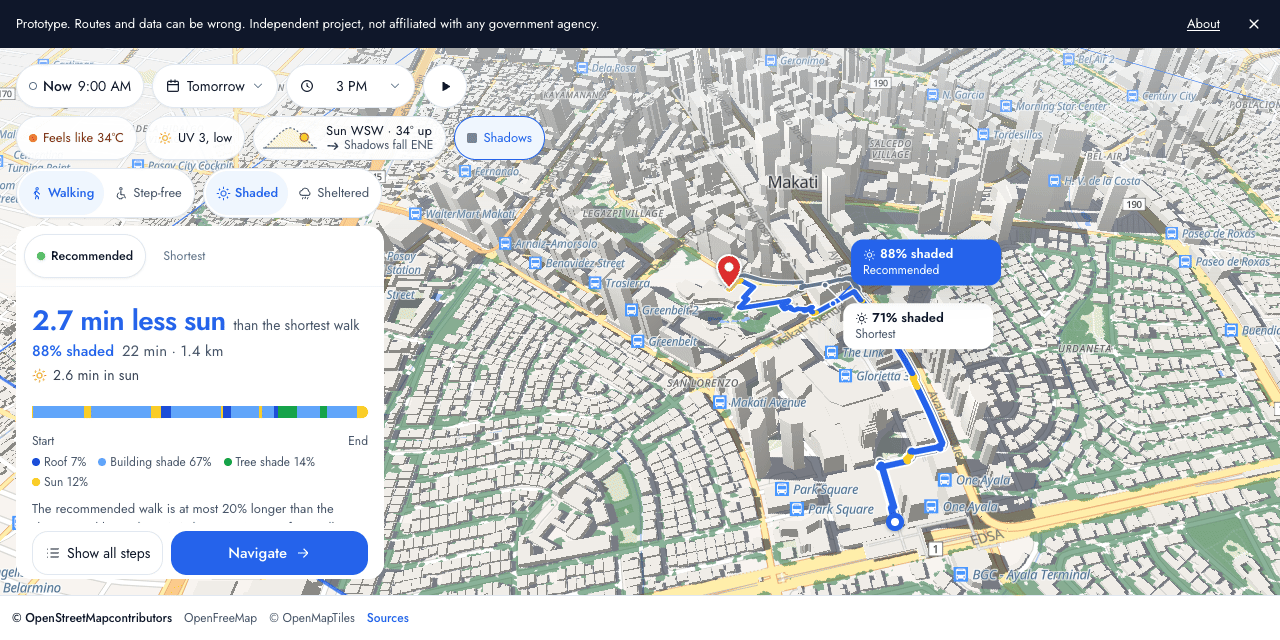
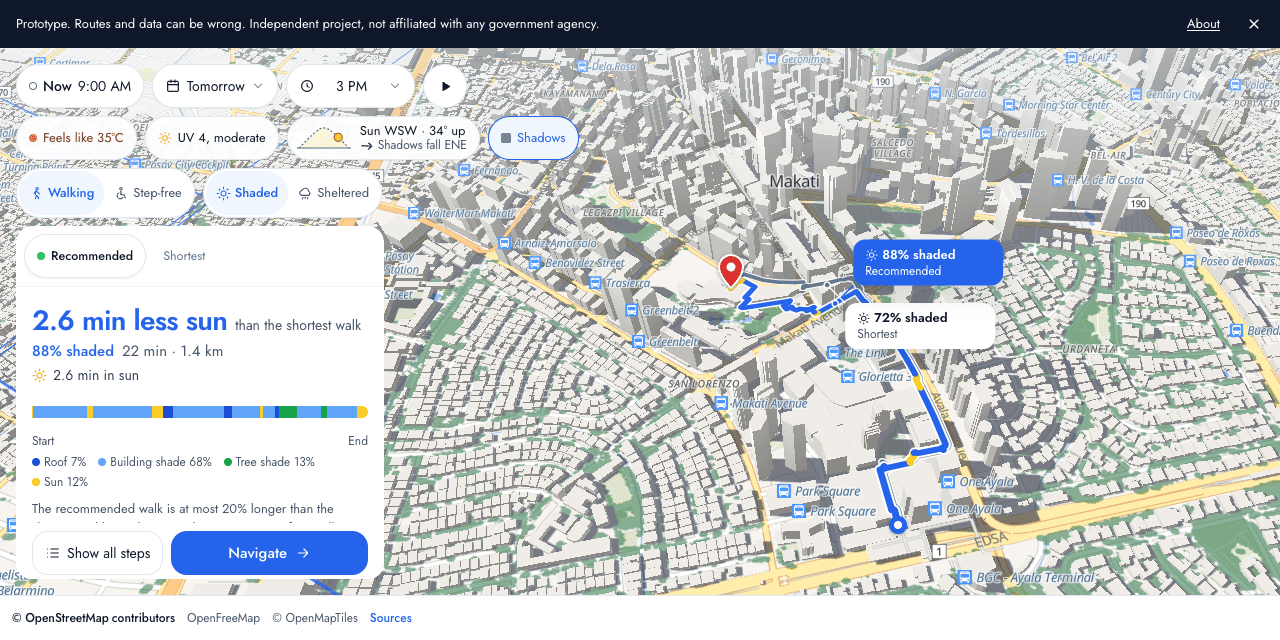
Demo GIFs and preview images re-recorded on the new wording, and the desktop footer gets its missing space before contributors

Changed region(s): [[0.0, 0.0625, 1.0, 0.9688], [0.1875, 0.7188, 0.25, 0.75], [0.0938, 0.0625, 0.125, 0.125]]

diff --git a/app/index.html b/app/index.html
@@ -18,7 +18,7 @@
   <body>
     <div id="root">
       <!-- A static copy of the landing screen, so text and poster paint before any script runs. Mirrors App, Landing and Chrome; React replaces it on start. -->
-      <div class="flex h-dvh flex-col overflow-hidden bg-slate-200 pl-[env(safe-area-inset-left)] pr-[env(safe-area-inset-right)] pt-[env(safe-area-inset-top)] font-sans text-ink"><div class="flex items-center gap-1 bg-ink py-0.5 pl-4 pr-1 text-[13px] leading-snug text-white" role="note"><button type="button" class="min-h-11 min-w-0 flex-1 py-1.5 text-left underline-offset-2 hover:underline md:hidden">Not a government service. Routes can be wrong.</button><p class="hidden min-w-0 flex-1 py-1.5 md:block">Prototype. Routes and data can be wrong. Independent project, not affiliated with any government agency.</p><button type="button" class="hidden h-11 shrink-0 rounded px-2 underline underline-offset-2 hover:bg-white/10 md:block">About</button><button type="button" aria-label="Close banner" class="grid h-11 w-11 shrink-0 place-items-center rounded hover:bg-white/10"><svg width="16" height="16" viewBox="0 0 24 24" fill="none" stroke="currentColor" stroke-width="1.8" stroke-linecap="round" stroke-linejoin="round" aria-hidden="true"><path d="M6 6l12 12M18 6L6 18"></path></svg></button></div><main class="relative min-h-0 flex-1 overflow-hidden"><div class="pointer-events-none absolute inset-0 transition-opacity duration-[400ms] motion-reduce:transition-none opacity-100" aria-hidden="true" id="shell-sky"><picture><source id="shell-poster-src" media="(max-width: 767px)"><img id="shell-poster" alt="" class="absolute inset-0 h-full w-full object-cover" fetchpriority="high"></picture><div class="absolute inset-0 mix-blend-multiply"></div><div class="absolute inset-0" id="shell-wash"></div></div><p class="sr-only" role="status" aria-live="polite"></p><div class="pointer-events-none absolute inset-0 grid place-items-center p-4"><section class="pointer-events-auto w-full max-w-[400px] rounded-card border border-white/60 p-6 shadow-card backdrop-blur-md transition-colors duration-500 motion-reduce:transition-none" aria-labelledby="landing-title" id="shell-card"><h1 id="landing-title" class="flex items-center gap-3 text-[32px] font-semibold leading-none tracking-tight text-ink"><svg width="40" height="40" viewBox="0 0 64 64" aria-hidden="true" class="shrink-0"><rect width="64" height="64" rx="14" fill="#2563EB"></rect><path d="M12 34a20 20 0 0 1 40 0z" fill="#fff"></path><path d="M32 34v14a4 4 0 0 1-8 0" fill="none" stroke="#fff" stroke-width="4" stroke-linecap="round"></path><circle cx="46" cy="14" r="5" fill="#FACC15"></circle></svg><span>undercover<span class="text-brand">.ph</span></span></h1><p class="mt-2 text-[16px] font-light leading-relaxed text-slate-700">Walk in the shade on sunny days, or under cover when it rains.</p><p class="mt-3 text-[13px] text-slate-700">14 walking areas in Metro Manila's busiest centres, from Caloocan to Alabang.</p><div class="mt-5 grid grid-cols-2 gap-3"><button type="button" aria-busy="false" data-mode="shade" class="flex flex-col items-center gap-0.5 rounded-card border border-slate-200 bg-white/90 px-3 py-3 text-ink shadow-sm transition hover:border-brand hover:text-brand disabled:cursor-not-allowed disabled:opacity-50"><span class="flex items-center gap-2 text-[16px] font-medium"><svg width="20" height="20" viewBox="0 0 24 24" fill="none" stroke="currentColor" stroke-width="1.8" stroke-linecap="round" stroke-linejoin="round" aria-hidden="true" class="text-amber-500"><circle cx="12" cy="12" r="4"></circle><path d="M12 2v2M12 20v2M4.9 4.9l1.4 1.4M17.7 17.7l1.4 1.4M2 12h2M20 12h2M4.9 19.1l1.4-1.4M17.7 6.3l1.4-1.4"></path></svg>Shaded</span><span class="flex items-center gap-1.5 text-[12px] font-light text-slate-600">Malilim</span></button><button type="button" aria-busy="false" data-mode="rain" class="flex flex-col items-center gap-0.5 rounded-card border border-slate-200 bg-white/90 px-3 py-3 text-ink shadow-sm transition hover:border-brand hover:text-brand disabled:cursor-not-allowed disabled:opacity-50"><span class="flex items-center gap-2 text-[16px] font-medium"><svg width="20" height="20" viewBox="0 0 24 24" fill="none" stroke="currentColor" stroke-width="1.8" stroke-linecap="round" stroke-linejoin="round" aria-hidden="true" class="text-brand"><path d="M7 15a4 4 0 0 1-.6-8 5.5 5.5 0 0 1 10.6 1.5A3.5 3.5 0 0 1 17 15H7z"></path><path d="M8 18l-1 2.5M12 18l-1 2.5M16 18l-1 2.5"></path></svg>Sheltered</span><span class="flex items-center gap-1.5 text-[12px] font-light text-slate-600">May bubong</span></button></div><p class="mt-4 flex items-center gap-2 text-[13px] text-slate-600"><span class="h-2 w-2 shrink-0 rounded-full bg-sun" aria-hidden="true"></span>&nbsp;</p></section></div></main><footer class="z-30 flex flex-wrap items-center gap-x-3 border-t border-slate-200 bg-white px-3 pb-[env(safe-area-inset-bottom)] text-[12px] leading-snug text-slate-600"><a href="https://www.openstreetmap.org/copyright" target="_blank" rel="noreferrer" class="inline-flex min-h-8 items-center hover:underline md:min-h-11 font-medium text-ink">© OpenStreetMap<span class="hidden sm:inline"> contributors</span></a><a href="https://openfreemap.org" target="_blank" rel="noreferrer" class="inline-flex min-h-8 items-center hover:underline md:min-h-11">OpenFreeMap</a><a href="https://www.openmaptiles.org/" target="_blank" rel="noreferrer" class="inline-flex min-h-8 items-center hover:underline md:min-h-11">© OpenMapTiles</a><button type="button" class="inline-flex min-h-8 items-center hover:underline md:min-h-11 min-w-11 font-medium text-brand">Sources</button></footer></div>
+      <div class="flex h-dvh flex-col overflow-hidden bg-slate-200 pl-[env(safe-area-inset-left)] pr-[env(safe-area-inset-right)] pt-[env(safe-area-inset-top)] font-sans text-ink"><div class="flex items-center gap-1 bg-ink py-0.5 pl-4 pr-1 text-[13px] leading-snug text-white" role="note"><button type="button" class="min-h-11 min-w-0 flex-1 py-1.5 text-left underline-offset-2 hover:underline md:hidden">Not a government service. Routes can be wrong.</button><p class="hidden min-w-0 flex-1 py-1.5 md:block">Prototype. Routes and data can be wrong. Independent project, not affiliated with any government agency.</p><button type="button" class="hidden h-11 shrink-0 rounded px-2 underline underline-offset-2 hover:bg-white/10 md:block">About</button><button type="button" aria-label="Close banner" class="grid h-11 w-11 shrink-0 place-items-center rounded hover:bg-white/10"><svg width="16" height="16" viewBox="0 0 24 24" fill="none" stroke="currentColor" stroke-width="1.8" stroke-linecap="round" stroke-linejoin="round" aria-hidden="true"><path d="M6 6l12 12M18 6L6 18"></path></svg></button></div><main class="relative min-h-0 flex-1 overflow-hidden"><div class="pointer-events-none absolute inset-0 transition-opacity duration-[400ms] motion-reduce:transition-none opacity-100" aria-hidden="true" id="shell-sky"><picture><source id="shell-poster-src" media="(max-width: 767px)"><img id="shell-poster" alt="" class="absolute inset-0 h-full w-full object-cover" fetchpriority="high"></picture><div class="absolute inset-0 mix-blend-multiply"></div><div class="absolute inset-0" id="shell-wash"></div></div><p class="sr-only" role="status" aria-live="polite"></p><div class="pointer-events-none absolute inset-0 grid place-items-center p-4"><section class="pointer-events-auto w-full max-w-[400px] rounded-card border border-white/60 p-6 shadow-card backdrop-blur-md transition-colors duration-500 motion-reduce:transition-none" aria-labelledby="landing-title" id="shell-card"><h1 id="landing-title" class="flex items-center gap-3 text-[32px] font-semibold leading-none tracking-tight text-ink"><svg width="40" height="40" viewBox="0 0 64 64" aria-hidden="true" class="shrink-0"><rect width="64" height="64" rx="14" fill="#2563EB"></rect><path d="M12 34a20 20 0 0 1 40 0z" fill="#fff"></path><path d="M32 34v14a4 4 0 0 1-8 0" fill="none" stroke="#fff" stroke-width="4" stroke-linecap="round"></path><circle cx="46" cy="14" r="5" fill="#FACC15"></circle></svg><span>undercover<span class="text-brand">.ph</span></span></h1><p class="mt-2 text-[16px] font-light leading-relaxed text-slate-700">Walk in the shade on sunny days, or under cover when it rains.</p><p class="mt-3 text-[13px] text-slate-700">14 walking areas in Metro Manila's busiest centres, from Caloocan to Alabang.</p><div class="mt-5 grid grid-cols-2 gap-3"><button type="button" aria-busy="false" data-mode="shade" class="flex flex-col items-center gap-0.5 rounded-card border border-slate-200 bg-white/90 px-3 py-3 text-ink shadow-sm transition hover:border-brand hover:text-brand disabled:cursor-not-allowed disabled:opacity-50"><span class="flex items-center gap-2 text-[16px] font-medium"><svg width="20" height="20" viewBox="0 0 24 24" fill="none" stroke="currentColor" stroke-width="1.8" stroke-linecap="round" stroke-linejoin="round" aria-hidden="true" class="text-amber-500"><circle cx="12" cy="12" r="4"></circle><path d="M12 2v2M12 20v2M4.9 4.9l1.4 1.4M17.7 17.7l1.4 1.4M2 12h2M20 12h2M4.9 19.1l1.4-1.4M17.7 6.3l1.4-1.4"></path></svg>Shaded</span><span class="flex items-center gap-1.5 text-[12px] font-light text-slate-600">Malilim</span></button><button type="button" aria-busy="false" data-mode="rain" class="flex flex-col items-center gap-0.5 rounded-card border border-slate-200 bg-white/90 px-3 py-3 text-ink shadow-sm transition hover:border-brand hover:text-brand disabled:cursor-not-allowed disabled:opacity-50"><span class="flex items-center gap-2 text-[16px] font-medium"><svg width="20" height="20" viewBox="0 0 24 24" fill="none" stroke="currentColor" stroke-width="1.8" stroke-linecap="round" stroke-linejoin="round" aria-hidden="true" class="text-brand"><path d="M7 15a4 4 0 0 1-.6-8 5.5 5.5 0 0 1 10.6 1.5A3.5 3.5 0 0 1 17 15H7z"></path><path d="M8 18l-1 2.5M12 18l-1 2.5M16 18l-1 2.5"></path></svg>Sheltered</span><span class="flex items-center gap-1.5 text-[12px] font-light text-slate-600">May bubong</span></button></div><p class="mt-4 flex items-center gap-2 text-[13px] text-slate-600"><span class="h-2 w-2 shrink-0 rounded-full bg-sun" aria-hidden="true"></span>&nbsp;</p></section></div></main><footer class="z-30 flex flex-wrap items-center gap-x-3 border-t border-slate-200 bg-white px-3 pb-[env(safe-area-inset-bottom)] text-[12px] leading-snug text-slate-600"><a href="https://www.openstreetmap.org/copyright" target="_blank" rel="noreferrer" class="inline-flex min-h-8 items-center hover:underline md:min-h-11 font-medium text-ink">© OpenStreetMap <span class="ml-[0.25em] hidden sm:inline">contributors</span></a><a href="https://openfreemap.org" target="_blank" rel="noreferrer" class="inline-flex min-h-8 items-center hover:underline md:min-h-11">OpenFreeMap</a><a href="https://www.openmaptiles.org/" target="_blank" rel="noreferrer" class="inline-flex min-h-8 items-center hover:underline md:min-h-11">© OpenMapTiles</a><button type="button" class="inline-flex min-h-8 items-center hover:underline md:min-h-11 min-w-11 font-medium text-brand">Sources</button></footer></div>
     </div>
     <script type="module" src="/src/main.tsx"></script>
   </body>

diff --git a/app/src/components/Chrome.tsx b/app/src/components/Chrome.tsx
@@ -83,7 +83,7 @@ export function Footer({ onAbout }: { onAbout: () => void }) {
       data-testid="attribution"
     >
       <a href="https://www.openstreetmap.org/copyright" target="_blank" rel="noreferrer" className={`${link} font-medium text-ink`}>
-        © OpenStreetMap<span className="hidden sm:inline"> contributors</span>
+        © OpenStreetMap{" "}<span className="ml-[0.25em] hidden sm:inline">contributors</span>
       </a>
       <a href="https://openfreemap.org" target="_blank" rel="noreferrer" className={link}>
         OpenFreeMap

diff --git a/docs/demo/ALT.md b/docs/demo/ALT.md
@@ -4,7 +4,7 @@ Each line matches the recording made with `pnpm demo:record` on 2026-10-22, with
 
 ## hero.gif
 
-Real recording of undercover.ph: the landing card over a 3D map of Makati, Shaded picked, Greenbelt typed as the destination and Ayala MRT Station as the start, the time set to Tomorrow at 3 PM, and two routes drawn with yellow sun segments, the recommended one 88% shaded and the shortest 71% shaded, with a card that reads 22 min, 1.4 km, 2.6 min in sun, roof 7%, building shade 67%, tree shade 14% and sun 12%.
+Real recording of undercover.ph: the landing card over a 3D map of Makati, Shaded picked, Greenbelt typed as the destination and Ayala MRT Station as the start, the time set to Tomorrow at 3 PM, and two routes drawn with yellow sun segments, the recommended one 88% shaded and the shortest 72% shaded, with a card that reads 22 min, 1.4 km, 2.6 min in sun, roof 7%, building shade 68%, tree shade 13% and sun 12%.
 
 ## sun-direction.gif
 
@@ -12,7 +12,7 @@ Real recording of the same walk with ground shadows on, where the play button st
 
 ## steps-phone.gif
 
-Real recording on a phone screen: the short route card at the bottom with 88% shaded, 22 min, 2.7 min less sun than the shortest walk and 2 warnings (stairs, through a building), with most of the screen left to the map. Then Steps with 12 steps that name the sidewalk side and the walker's own side, for example "Head north on the northeast side (on your right) of Courtyard Drive", with landmarks such as Rustan's and Greenbelt 5 and flags for a crossing, an underpass with stairs and a passage through a building. Then Navigate with that first turn, step 1 of 12, and an End button.
+Real recording on a phone screen: the short route card at the bottom with 88% shaded, 22 min, 2.6 min less sun than the shortest walk and 2 warnings (stairs, through a building), with most of the screen left to the map. Then Steps with 12 steps that name the sidewalk side and the walker's own side, for example "Head north on the southwest side (on your left) of Courtyard Drive", with landmarks such as Rustan's and Greenbelt 5 and flags for a crossing, an underpass with stairs and a passage through a building. Then Navigate with that first turn, step 1 of 12, and an End button.
 
 ## rain.gif
 

diff --git a/README.md b/README.md
@@ -31,7 +31,7 @@ The app covers 14 walking areas, from Caloocan to Alabang. Each area is a downto
 
 [![A walk from Ayala MRT Station to Greenbelt on undercover.ph. It shows the landing card, the Shaded choice, destination and start search, and tomorrow at 3 PM. Then three routes on the 3D map with their shaded share. Then the route card with minutes in sun and the roof, building, and tree split](docs/demo/hero.gif)](https://undercover.ph)
 
-<sub>Real recording of the app (via `app/scripts/demo-record.mjs`). Ayala MRT Station to Greenbelt, leaving at 3 PM. The recommended walk is 1,406 m, 88% shaded, with 2.6 minutes in sun. The shortest walk is 1,230 m, 71% shaded, with 5.3 minutes in sun.</sub>
+<sub>Real recording of the app (via `app/scripts/demo-record.mjs`). Ayala MRT Station to Greenbelt, leaving at 3 PM. The recommended walk is 1,406 m, 88% shaded, with 2.6 minutes in sun. The shortest walk is 1,230 m, 72% shaded, with 5.2 minutes in sun.</sub>
 
 Try it at **[undercover.ph](https://undercover.ph)**. Pick Shaded or Sheltered, choose where you start and where you go, and pick the half hour you leave.
 
@@ -45,7 +45,7 @@ The season flips which side that is at noon. From 1 May to 14 August the noon su
 
 [![The shadow layer on undercover.ph moving through one day. Building and tree shadows swing from west at 8 AM to east at 4 PM. The sun chip turns and the route updates](docs/demo/sun-direction.gif)](https://undercover.ph)
 
-<sub>Real recording of the shadow layer and the play button, made in Makati before the app covered more areas. The map draws its shadows in your browser from building heights and tree crowns. They match the shade model's ground shadows on 92% to 98% of the ground in Makati. Route scores always come from the full shade model.</sub>
+<sub>Real recording of the shadow layer and the play button in Makati. The map draws its shadows in your browser from building heights and tree crowns. They match the shade model's ground shadows on 92% to 98% of the ground in Makati. Route scores always come from the full shade model.</sub>
 
 ## Each route shows its sun minutes, cover, and sidewalk side
 
